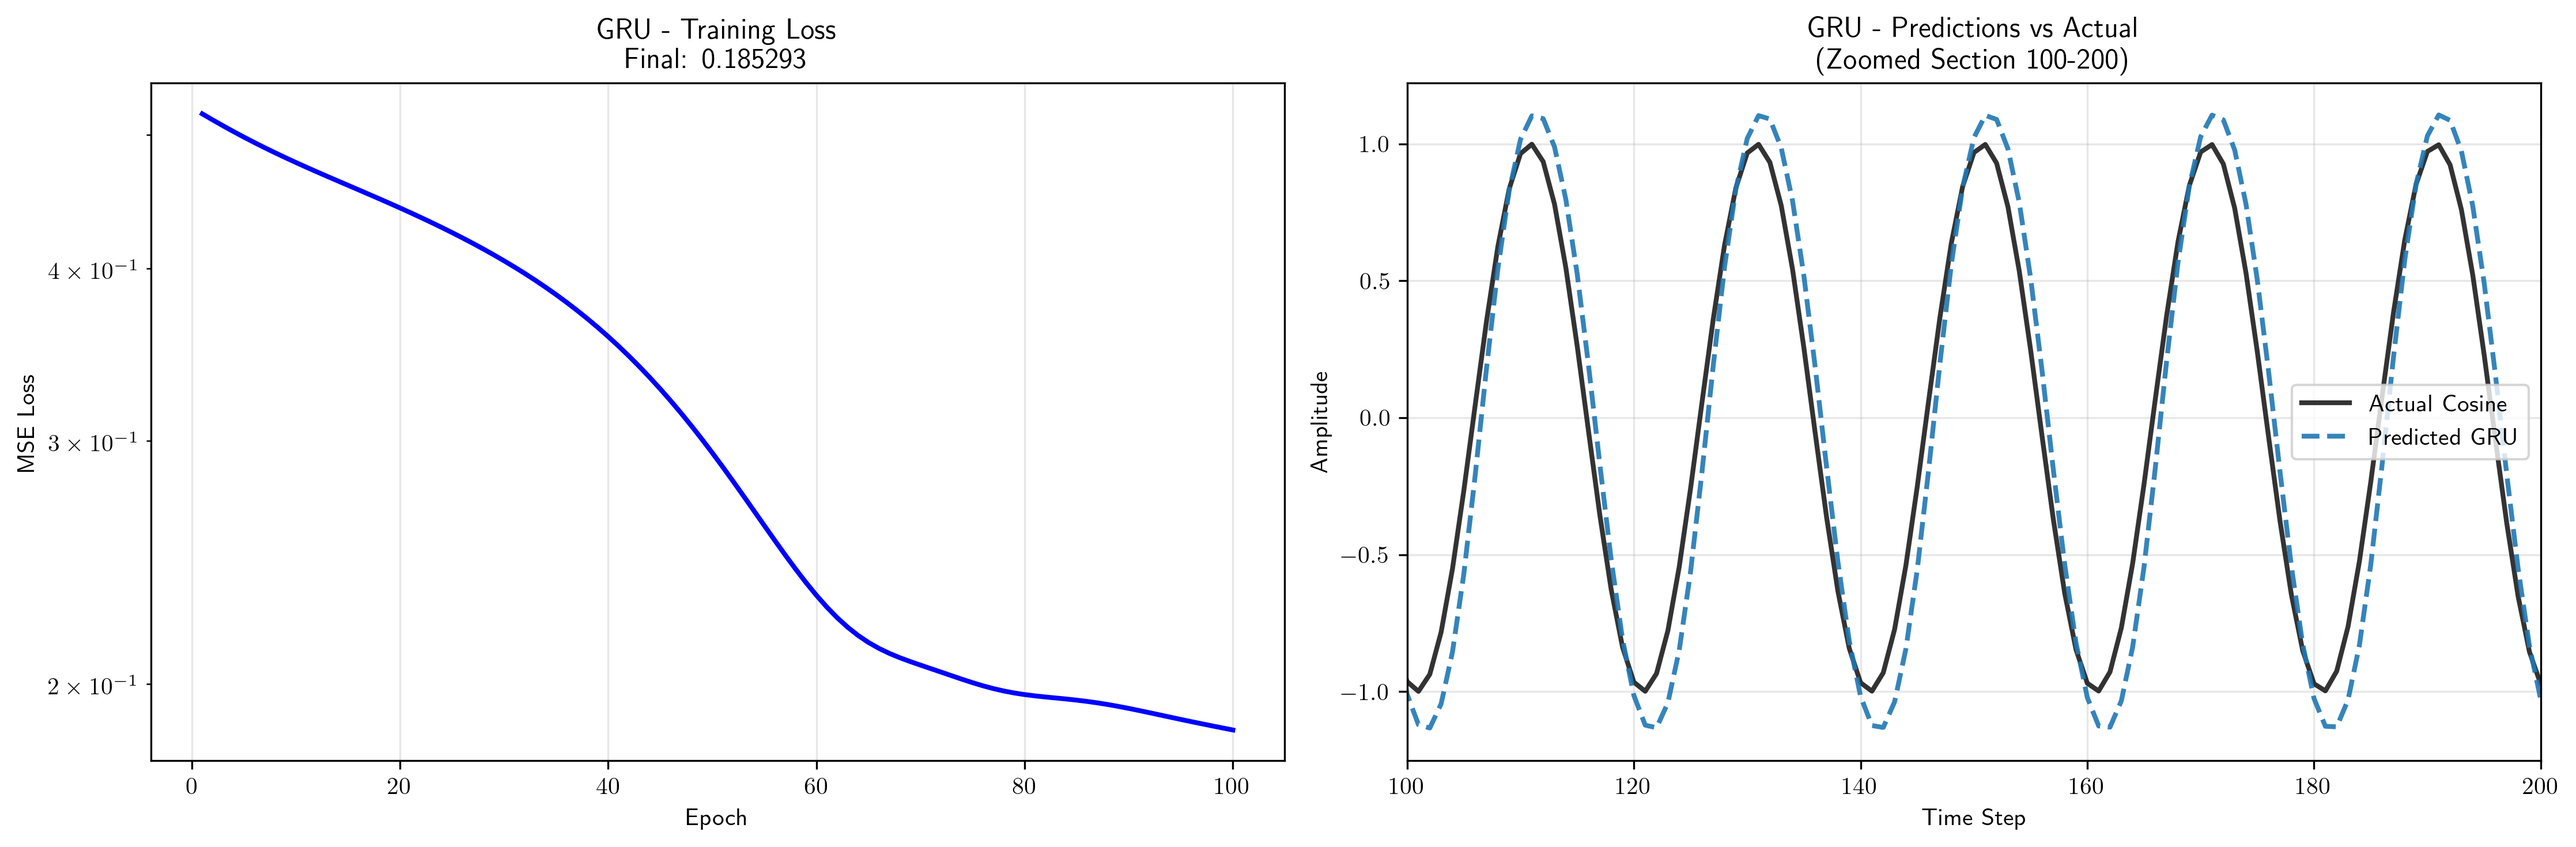
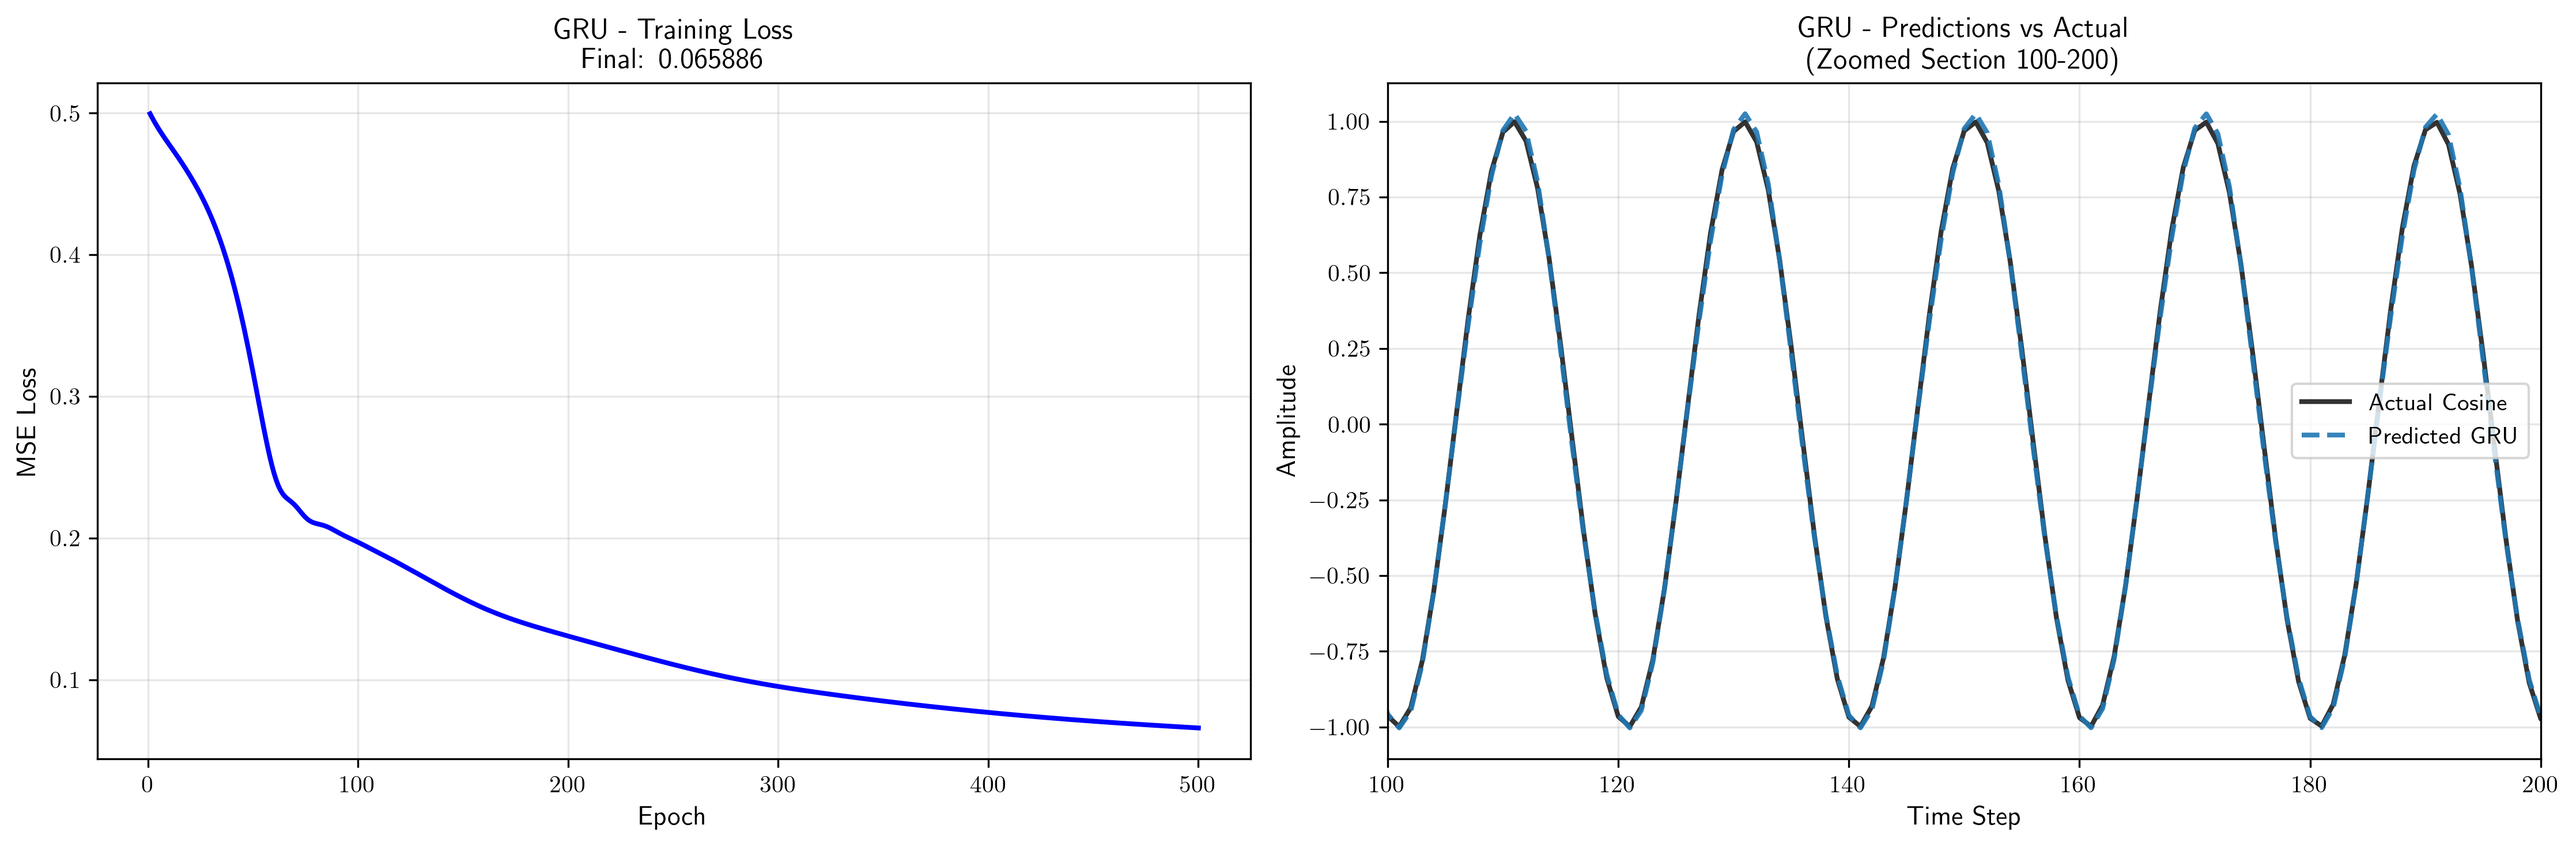
final comparison for step 8

diff --git a/preparation.py b/preparation.py
@@ -596,7 +596,7 @@ def classify_LR(X, digits):
     print(f"  Accuracy = {accuracies[best_f1_idx]:.4f}")
     print("="*60)
 
-
+# Neural Networks for Step 8
 
 class myRNN(nn.Module):
     def __init__(self, input_size=1, hidden_size=32, output_size=1):
@@ -609,7 +609,6 @@ class myRNN(nn.Module):
         out = self.fc(out)
         return out
 
-
 class myLSTM(nn.Module):
     def __init__(self, input_size=1, hidden_size=32, num_layers=1, output_size=1): # hidden_size = 32 for moderate expressiveness
         super(myLSTM, self).__init__()
@@ -621,7 +620,6 @@ class myLSTM(nn.Module):
         out = self.fc(out)
         return out
 
-
 class myGRU(nn.Module):
     def __init__(self, input_size=1, hidden_size=32, output_size=1):
         super(myGRU, self).__init__()
@@ -632,9 +630,45 @@ class myGRU(nn.Module):
         out, _ = self.gru(x)
         out = self.fc(out)
         return out
+    
 
+def train_model(model, X_train, Y_train, epochs=100, lr=0.001): 
+    criterion = nn.MSELoss()
+    optimizer = torch.optim.Adam(model.parameters(), lr=lr) # default learning rate small to avoid overshooting
+    losses = []
+    
+    for epoch in range(epochs):
+        model.train() # put model in trainning mode
+        optimizer.zero_grad()   # clean accumulated gradients
+        
+        outputs = model(X_train)
+        loss = criterion(outputs, Y_train)
+        
+        loss.backward()   # backpropagate loss gradients
+        optimizer.step()  # update weights
+        
+        losses.append(loss.item())
+        
+        if (epoch + 1) % 20 == 0:
+            print(f'Epoch [{epoch+1}/{epochs}], Loss: {loss.item():.6f}')
+    
+    return losses
 
-def EvalCompNNs():
+def evaluate_model(model, X_test, Y_test):
+    model.eval()    # put model in eval mode
+    with torch.no_grad():   # we do not need to calculate and store gradients in inference
+        predictions = model(X_test)
+        mse = nn.MSELoss()(predictions, Y_test)
+        mae = torch.mean(torch.abs(predictions - Y_test))
+    return predictions, mse.item(), mae.item()
+
+def EvalCompModels():
+    # Repeatability in our results
+    torch.manual_seed(42)
+    np.random.seed(42)
+    if torch.cuda.is_available():
+        torch.cuda.manual_seed_all(42)
+
     f = 40 # f = 40Hz
     total_points = 20*f
     t = np.linspace(0, 1, total_points) # 1 second, create 40 points for each period
@@ -647,174 +681,176 @@ def EvalCompNNs():
         X.append(x[i:i+seq_len])
         Y.append(y[i:i+seq_len])
 
-    # Use CUDA for training
-    device = torch.device("cuda" if torch.cuda.is_available() else "cpu")
-    print(f"Using device: {device}")
+    X = np.array(X, dtype=np.float32)
+    Y = np.array(Y, dtype=np.float32)
 
-    # convert to torch tensors and add extra dimension of size 1 (1 input/output at each time step)
-    X = torch.tensor(np.array(X), dtype=torch.float32).unsqueeze(-1).to(device)
-    Y = torch.tensor(np.array(Y), dtype=torch.float32).unsqueeze(-1).to(device)
-    
+    split_idx = int(0.8 * len(X))   # train - test split
+    X_train = torch.FloatTensor(X[:split_idx]).unsqueeze(-1)
+    Y_train = torch.FloatTensor(Y[:split_idx]).unsqueeze(-1)
+    X_test = torch.FloatTensor(X[split_idx:]).unsqueeze(-1)
+    Y_test = torch.FloatTensor(Y[split_idx:]).unsqueeze(-1)
+
     models = {
-        'RNN': myRNN().to(device),
-        'LSTM': myLSTM().to(device),
-        'GRU': myGRU().to(device)
+        'RNN': myRNN(),
+        'LSTM': myLSTM(),
+        'GRU': myGRU()
     }
-
     results = {}
 
-    for model_name, model in models.items():
-        print(f"\n====== Trainning {model_name} ======")
+    print("\n" + "="*70)
 
-        criterion = nn.MSELoss()
-        optimizer = torch.optim.Adam(model.parameters(), lr=0.001) # we choose a small learning rate to avoid overshooting
-        
-        epochs = 100
-        losses = []
-
-        for epoch in range(epochs):
-            optimizer.zero_grad() # clear previous gradients
-            out = model(X)
-            loss = criterion(out, Y) # we use MSE loss function for regression
-            loss.backward() # backpropagate the loss gradients
-            optimizer.step() # update the weights
-            losses.append(loss.item())
-            print(f"Epoch [{epoch + 1}/{epochs}], Loss: {loss.item():.6f}")
-
-        results[model_name] = {
-            'model': model,
-            'losses': losses,
-            'final_loss': losses[-1]
+    # Gather trainning and evaluation information from our models
+    for name, model in models.items():
+        print(f"\nTrainning {name}...")
+        print("-"*70)
+        losses = train_model(model, X_train, Y_train, epochs=500, lr=0.001) # train on trainning samples
+        predictions, mse, mae = evaluate_model(model, X_test, Y_test)   # evaluate on test samples
+        results[name] = {
+            'model': model, 
+            'losses': losses, 
+            'predictions': predictions, 
+            'mse': mse, 
+            'mae': mae
         }
-
-    # Plot training loss
+        print(f"\n{name} - Test MSE: {mse:.6f}, Test MAE: {mae:.6f}")
+    
+    # Visualize results with plots
+    # Plot 1: Model comparison (Training Loss + Predictions)
     plt.figure(figsize=(12, 8))
     
+    # Subplot 1: Training Loss Comparison
     plt.subplot(2, 1, 1)
+    epochs_range = range(1, len(results['RNN']['losses']) + 1)
     for model_name in models.keys():
-        plt.plot(range(1, epochs + 1), results[model_name]['losses'], 
-                label=f'{model_name} (Final: {results[model_name]["final_loss"]:.6f})', 
-                linewidth=2)
+        final_loss = results[model_name]['losses'][-1]
+        plt.plot(epochs_range, results[model_name]['losses'],  # Plot Loss vs Epochs for every model
+                label=f'{model_name} (Final: {final_loss:.6f})', 
+                linewidth=2) 
     
-    plt.title("Training Loss Comparison: RNN vs LSTM vs GRU")
+    plt.title("Training Loss Comparison: RNN vs LSTM vs GRU", fontsize=13, fontweight='bold')
     plt.xlabel("Epoch")
     plt.ylabel("MSE Loss")
     plt.legend()
-    plt.grid(True)
-    #plt.yscale('log') 
-    plt.tight_layout()
-
-
-
+    plt.grid(True, alpha=0.3)
+    
+    # Subplot 2: Predicted vs Actual Cosine
     plt.subplot(2, 1, 2)
-    actual = Y.cpu().numpy()[:, -1, 0]
-
+    
+    # Get actual cosine (last point of each sequence)
+    X_all = torch.FloatTensor(X).unsqueeze(-1)
+    Y_all = torch.FloatTensor(Y).unsqueeze(-1)
+    actual = Y_all.cpu().numpy()[:, -1, 0]
+    
     plt.plot(actual, label="Actual Cosine", color='black', linewidth=3, alpha=0.7)
-
+    
     colors = ['red', 'blue', 'green']
     for i, (model_name, result) in enumerate(results.items()):
         model = result['model']
         model.eval()
-        with torch.no_grad():
-            predictions = model(X).cpu().numpy()
+        with torch.no_grad(): # not storing gradient in inference
+            predictions = model(X_all).cpu().numpy()  # calculate predicton samples to plot
         
         predicted = predictions[:, -1, 0]
         plt.plot(predicted, label=f'Predicted {model_name}', 
                 linestyle='--', linewidth=2, alpha=0.8, color=colors[i])
-
-    plt.title("Predicted vs Actual Cosine Wave (All Models)")
+    
+    plt.title("Predicted vs Actual Cosine Wave (All Models)", fontsize=13, fontweight='bold')
     plt.xlabel("Time Step")
     plt.ylabel("Amplitude")
     plt.legend()
-    plt.grid(True)
+    plt.grid(True, alpha=0.3)
     plt.tight_layout()
-
-    plt.savefig("plots/all_models_comparison_step8.png", dpi=300)
+    plt.savefig("plots/final_all_models_comparison.png", dpi=300, bbox_inches='tight')
     plt.show()
-
-    actual = Y.cpu().numpy()[:, -1, 0]
     
+    # Seperate Plots for each model
     for model_name, result in results.items():
         model = result['model']
         model.eval()
         with torch.no_grad():
-            predictions = model(X).cpu().numpy()
+            predictions = model(X_all).cpu().numpy()
         
         predicted = predictions[:, -1, 0]
         
         fig, (ax1, ax2) = plt.subplots(1, 2, figsize=(15, 5))
         
-        ax1.plot(range(1, epochs + 1), result['losses'], 'b-', linewidth=2)
-        ax1.set_title(f"{model_name} - Training Loss\nFinal: {result['final_loss']:.6f}")
-        ax1.set_xlabel("Epoch")
-        ax1.set_ylabel("MSE Loss")
+        # Left: Training Loss
+        ax1.plot(epochs_range, result['losses'], 'b-', linewidth=2)
+        final_loss = result['losses'][-1]
+        ax1.set_title(f"{model_name} - Training Loss\nFinal: {final_loss:.6f}", 
+                     fontsize=12, fontweight='bold')
+        ax1.set_xlabel("Epoch", fontsize=11)
+        ax1.set_ylabel("MSE Loss", fontsize=11)
         ax1.grid(True, alpha=0.3)
-        ax1.set_yscale('log')
         
+        # Right: Predictions vs Actual Cosine
         time_steps = np.arange(len(actual))
         ax2.plot(time_steps, actual, label="Actual Cosine", 
                 color='black', linewidth=2, alpha=0.8)
         ax2.plot(time_steps, predicted, label=f"Predicted {model_name}", 
                 linestyle="--", linewidth=2, alpha=0.9)
-        ax2.set_title(f"{model_name} - Predictions vs Actual")
-        ax2.set_xlabel("Time Step")
-        ax2.set_ylabel("Amplitude")
-        ax2.legend()
-        ax2.grid(True, alpha=0.3)
         
         if len(actual) > 100:
             zoom_start = 100
-            zoom_end = 200
+            zoom_end = min(200, len(actual))
             ax2.set_xlim(zoom_start, zoom_end)
-            ax2.set_title(f"{model_name} - Predictions vs Actual\n(Zoomed Section 100-200)")
+            ax2.set_title(f"{model_name} - Predictions vs Actual\n(Zoomed Section {zoom_start}-{zoom_end})", 
+                         fontsize=12, fontweight='bold')
+        else:
+            ax2.set_title(f"{model_name} - Predictions vs Actual", 
+                         fontsize=12, fontweight='bold')
+        
+        ax2.set_xlabel("Time Step", fontsize=11)
+        ax2.set_ylabel("Amplitude", fontsize=11)
+        ax2.legend(fontsize=10)
+        ax2.grid(True, alpha=0.3)
         
         plt.tight_layout()
         plt.savefig(f"plots/{model_name.lower()}_clean.png", dpi=300, bbox_inches='tight')
         plt.show()
 
-    print("\n" + "="*50)
-    print("FINAL COMPARISON RESULTS:")
-    print("="*50)
-    for model_name, result in results.items():
-        model = result['model']
-        model.eval()
-        with torch.no_grad():
-            predictions = model(X).cpu().numpy()
-        predicted = predictions[:, -1, 0]
-        error = np.abs(actual - predicted)
-        
-        print(f"{model_name}:")
-        print(f"  Final Loss: {result['final_loss']:.6f}")
-        print(f"  Mean Absolute Error: {np.mean(error):.6f}")
-        print()
+    # Choose best model based on test MSE
+    sorted_models = sorted(results.items(), key=lambda x: x[1]['mse'])
+
+    print()
+    print(60*"=")
+    print("BEST MODEL SELECTION")
+    print(60*"=")
+
+    for i, (name, metrics) in enumerate(sorted_models, 1):
+        print(f"{i}. {name}: MSE={metrics['mse']:.4f}, MAE={metrics['mae']:.4f}")
+
+    best_model_name, best_metrics = sorted_models[0]
+    print(f"\nBest Model: {best_model_name}")     
+    print(60*"=")   
 
 
 if __name__ == '__main__':
-    # Step 2
-    wavs, speakers, digits = data_parser()
-    analyze_digits_statistics(digits)
+    # # Step 2
+    # wavs, speakers, digits = data_parser()
+    # analyze_digits_statistics(digits)
 
-    # Step 3
-    mfccs, deltas, delta_deltas = extract_features(wavs)
+    # # Step 3
+    # mfccs, deltas, delta_deltas = extract_features(wavs)
     
-    # Step 4.1
-    plot_histgrams(wavs, digits, mfccs)
+    # # Step 4.1
+    # plot_histgrams(wavs, digits, mfccs)
 
-    # Step 4.2
-    extract_mfscs(wavs, mfccs, digits, speakers)
+    # # Step 4.2
+    # extract_mfscs(wavs, mfccs, digits, speakers)
 
-    # mfscs1 = extract_mfscs1(mfccs)
-    # mfscs2 = extract_mfscs2(mfccs)
+    # # mfscs1 = extract_mfscs1(mfccs)
+    # # mfscs2 = extract_mfscs2(mfccs)
 
-    # Step 5
-    feature_vectors = combine_features(mfccs, deltas, delta_deltas, digits)
+    # # Step 5
+    # feature_vectors = combine_features(mfccs, deltas, delta_deltas, digits)
 
-    # Step 6
-    pca2d, pca3d = pca_on_features(feature_vectors, digits)
+    # # Step 6
+    # pca2d, pca3d = pca_on_features(feature_vectors, digits)
 
-    # Step 7
-    scaler = StandardScaler()
-    X = scaler.fit_transform(feature_vectors)
+    # # Step 7
+    # scaler = StandardScaler()
+    # X = scaler.fit_transform(feature_vectors)
     
     # classify_Naive_Bayes(X, digits)
     # classify_SVM(X, digits)
@@ -823,4 +859,4 @@ if __name__ == '__main__':
     # classify_LR(X, digits)
 
     # Step 8
-    EvalCompNNs()
+    EvalCompModels()
